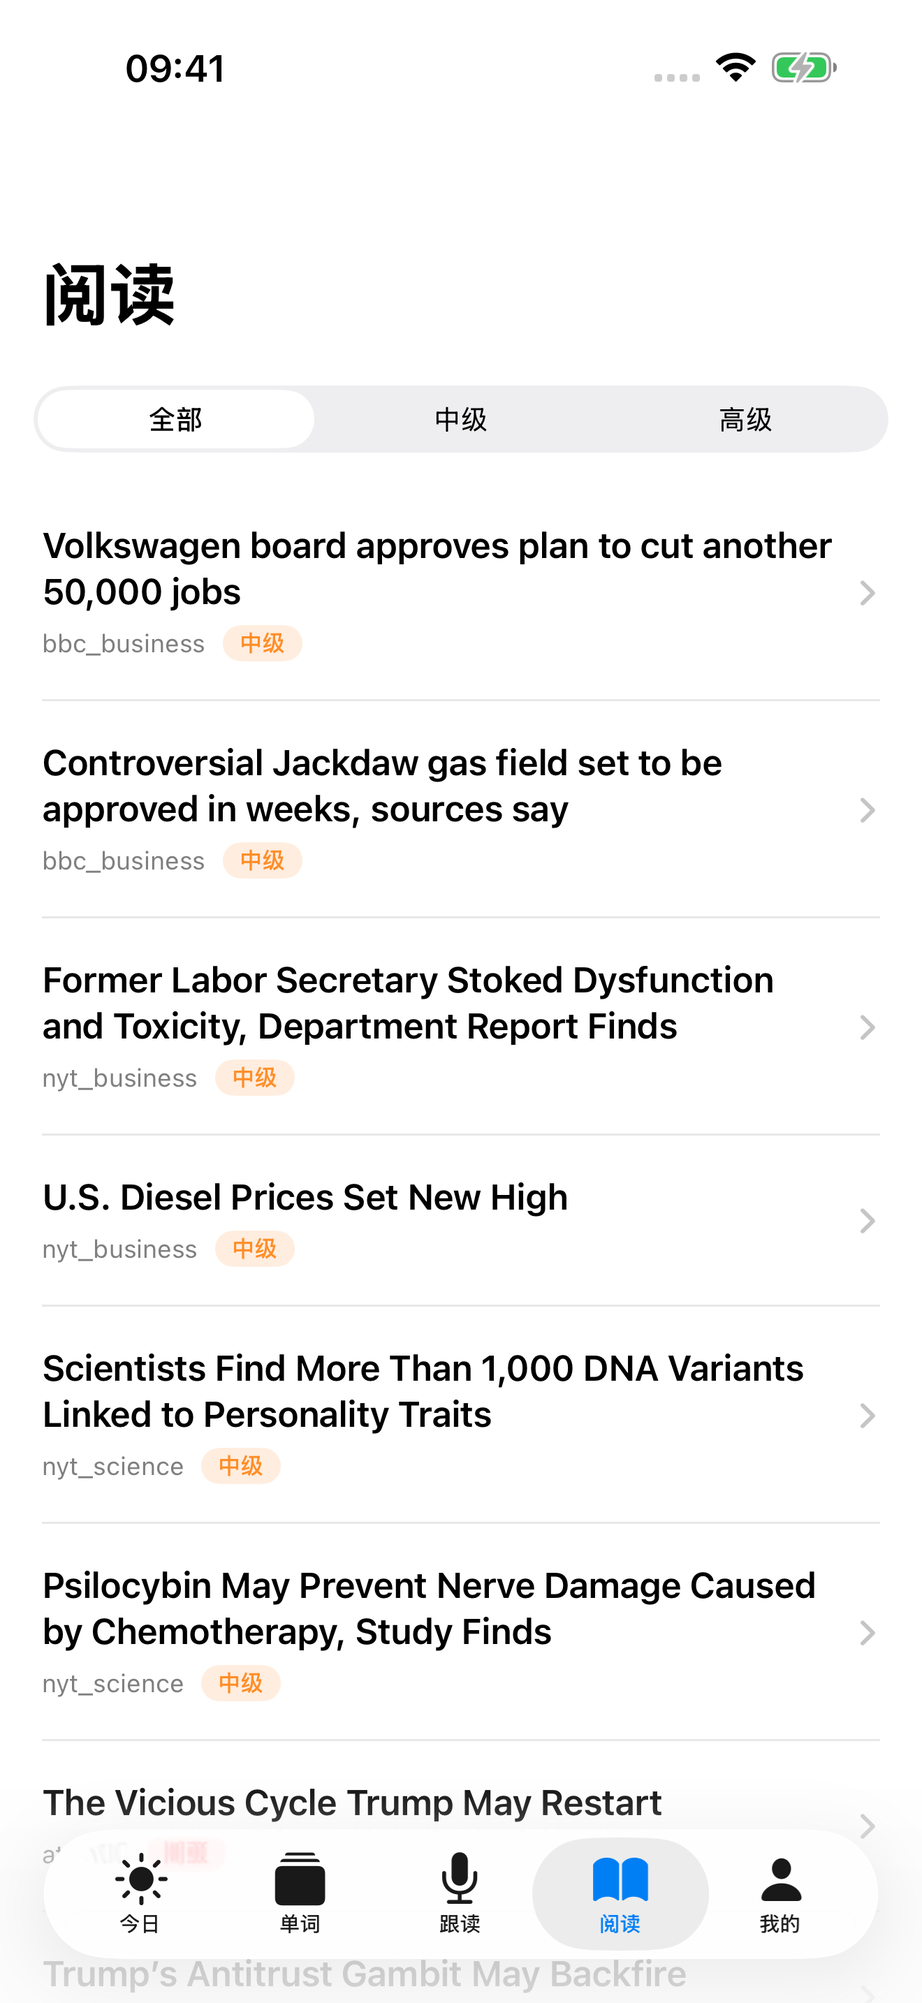
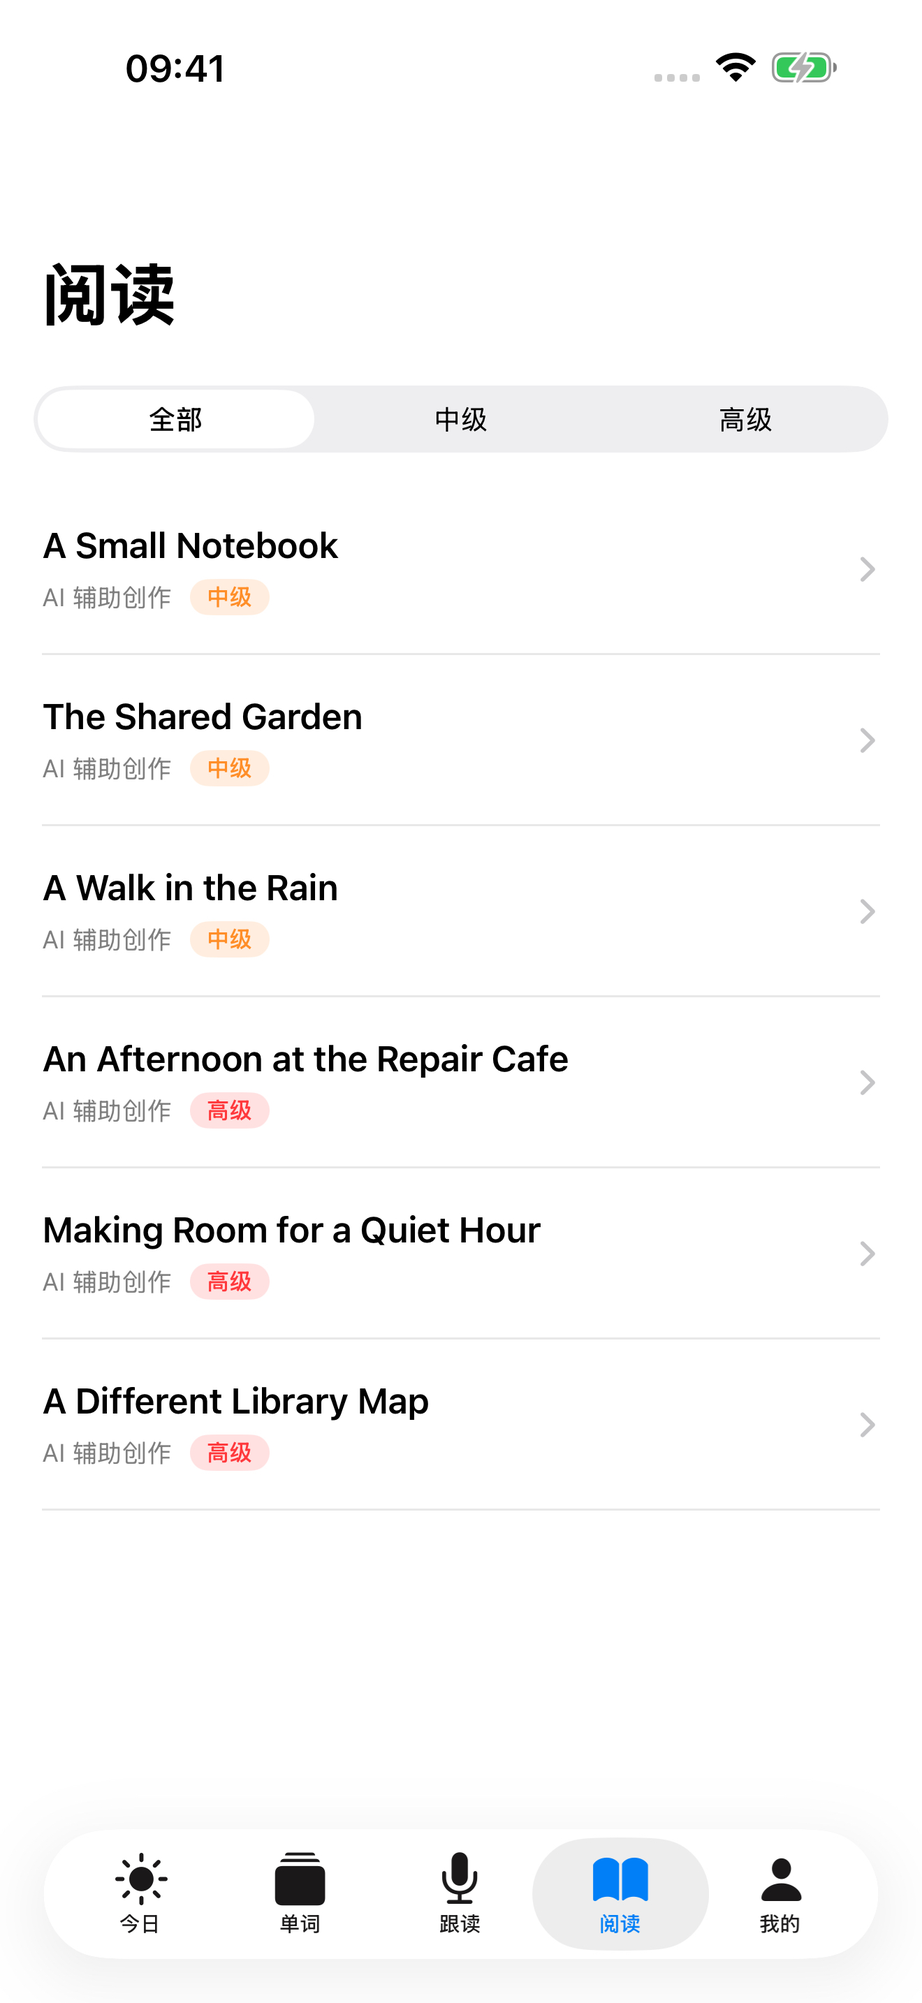
docs(release): record build 3 upload and original reading screenshots

diff --git a/docs/app-store/verification.md b/docs/app-store/verification.md
@@ -1,39 +1,39 @@
 # 本地上架材料验收记录
 
-日期：2026-09-05。检查范围为本目录的草稿与截图，不是全 App 回归、真机麦克风测试或发布批准。
+日期：2026-09-06。检查范围为本目录的草稿与截图，不是真机麦克风测试或发布批准。
 
 ## 截图来源与测试
 
-- 源码提交：`4bbff23f8eca67e828f3d1b5be0abd1c4e26eadf`；制作材料时 `git diff --exit-code -- app` 通过，正式源码未改动。
-- Xcode 26.2；专用 iPhone 17 Pro Max 模拟器，iOS 26.3.1。中文、浅色外观，状态栏统一为 09:41。
-- 临时 XcodeGen 工程直接引用仓库 `app/Sources`、`app/Resources` 与原 Info.plist，Release 配置；不是通过 Debug 自动化入口制造状态。模拟器采用 ad-hoc 签名，不生成新上架归档。
-- XCUITest 使用专用审核账号进入真实服务，依次打开单词释义、今日、跟读、阅读列表和详情。未提交答题、未收藏词条、未录音；正常认证可能产生安全日志。
-- 最终运行：`ScreenshotUITests.testCaptureStoreScreenshots` 通过；1 个测试，0 个失败，用时 30.007 秒，`TEST SUCCEEDED`。
-- 截图从 XCTest 附件导出。原始截图直接编码为 JPEG；只复制五张指定附件，没有导出登录界面、测试结果包或凭据。
-- 前期临时工程遇到配置缺失、关闭签名导致 Keychain 保存失败及一次点击失败；补齐配置／签名并重新运行后最终测试通过。未据此声称真机全流程已验证。
+- Build 1/2 的旧五图展示后端文章内容，已被本轮五张 Build 3 新图替换。
+- Release 截图测试 1 个测试通过，确认五个 Tab、每日阅读、含一篇内置短文的阅读列表，以及 `A Small Notebook` 详情可见。
+- 截图测试结果：`/private/tmp/englishwords-store-capture.1vQp0n/Capture-build3-bundled-reading-retry.xcresult`。
+- 截图从 XCTest 附件导出为五张 JPEG，没有导出登录界面、测试结果包或凭据。
 
 ## 图像检查
 
-五张图片均逐张查看，且 `sips` 确认：1320 × 2868、JPEG、`hasAlpha: no`。没有加载错误、登录凭据、私人电话号码或调试服务地址。SHA-256 已记录在 `screenshots/manifest.json`。
+五张新图均已逐张查看，且 `sips` 确认尺寸为 1320 × 2868。前三图因对应真实界面未变化而与旧图 SHA-256 相同；阅读列表和详情为内置 AI 辅助创作短文的新图。
 
 尺寸对照：[Apple 截图规格](https://developer.apple.com/help/app-store-connect/reference/app-information/screenshot-specifications/)。规格匹配仅代表文件尺寸满足该槽位要求，不代表内容和授权已获 Apple 认可。
 
-截图呈现限制：跟读是未练习状态，不是语音能力验证；文章为线上真实内容，版权未核验；不以截图证明不存在的功能。后续 App 界面／版本变更时应重新制作。
+阅读详情截图默认显示英文正文，只展开中文标题；段落中文译文需要点击后显示，截图不证明已展示全文译文。六篇短文已逐篇阅读核对英中对应，独立审阅无阻塞；这不证明词典释义或例句的来源授权。
 
 ## 文案与隐私核对
 
-中文文案长度：名称 18、副标题 13、推广文本 59、关键词 35；描述长度由校验脚本按当前文案重新计算。结构化 JSON 可解析，描述正文与 Markdown 分区对应。支持／隐私 URL 已与 App 配置一致，版权已按用户确认填写为 `2026 shaofei Ma`。
+Build 3 新描述为 594 字，推广文本、关键词、副标题和 Education 分类均已保存至 App Store Connect。支持／隐私 URL 已与 App 配置一致，版权已按用户确认填写为 `2026 shaofei Ma`。
 
-当前源码已包含 App 内注册审批、账号注销／撤回／回执查询、隐私／支持入口及 `PrivacyInfo.xcprivacy`。材料仍区分“登出”与“注销”，也没有承诺未知的数据保存时限。隔离 HTTP／PostgreSQL／Redis／worker 生命周期验证已通过（后端提交 `682cbae`，25 个 PostgreSQL 用例及 live smoke 通过）；iOS 全套 104 个测试与构建已通过。这些证据不等于生产注销已启用。
+恢复五个 Tab 和每日阅读已完成，源码提交为 `db4e6bd991aa64539ac7c34e6d55bee95d7bcc8d`。`ReadingStore` 的红灯结果为 9 个测试中 5 个失败（`/private/tmp/englishwords-original-reading-tests/Logs/Test/Test-EnglishWords-2026.09.06_22-40-06-+0900.xcresult`）；实现后的绿灯结果为 9 个测试、0 个失败（`/private/tmp/englishwords-original-reading-tests/Logs/Test/Test-EnglishWords-2026.09.06_22-47-15-+0900.xcresult`）。材料仍区分“登出”与“注销”，这些证据不等于生产注销已启用。
 
 ## 生产与导出验证
 
 - 生产已部署提交 `98139df`，数据库迁移为 `20260905_0002`；核对时有 5 个 active users，账号注销开关保持 `false`。
 - 容器内 `/health` 返回的 `status`、`db`、`redis` 均为 `ok`。
-- 公网 `/privacy` 与 `/support` 已通过未登录浏览器完成渲染验证；隐私政策中的 SLA／留存规则仍待定稿。
+- 公网 `/privacy` 与 `/support` 已通过未登录浏览器完成渲染验证；SLA／回执期限已确认，隐私政策中的其他留存规则仍待定稿。
 - `AppStoreExport/EnglishWords.ipa` 已在本地成功导出。可访问证书链的提升权限环境中，`codesign --verify --deep --strict` 通过；签名为 Apple Distribution `shaofei Ma`，Team ID `9H47USBKK4`。
 - 导出包版本为 1.0（build 1）；`PrivacyInfo.xcprivacy` 中 UserDefaults 理由 `CA92.1` 已核对。
-- App Store Connect 登录已恢复，Love English 1.0 为 `Prepare for Submission`。中文推广文本、512 字描述、关键词、支持 URL、版权 `2026 shaofei Ma` 及审核联系邮箱已保存；最终 Save 不可用且 Add for Review 恢复可用，页面无错误。
+- `build/LoveEnglish-1.0-3-bundled-reading.xcarchive` 已成功归档为 1.0（build 3），归档内 `original-reading.json` 与源码资源相同。
+- 2026-09-06 23:03:23 JST，Build 3 上传命令以 0 退出，并返回 `Upload succeeded`、`Uploaded package is processing`。这证明上传完成，不代表 Apple 已处理完成。
+- App Store Connect 中 Love English 1.0 为 `Prepare for Submission`。新版推广文本、594 字描述、关键词、副标题和 Education 分类已保存。
+- 五张截图已上传到 6.9 英寸槽位，6.5 英寸槽位自动沿用；页面返回后确认顺序为 01 今日、02 单词、03 跟读、04 阅读列表、05 阅读详情，共 5 项且无重复。
 
 隐私政策属于技术事实草稿，不是法律意见或最终正式政策。阻塞项完整列于 `privacy-review.md`，需结合最终生产配置与发布地区完成确认。
 
@@ -51,4 +51,4 @@ git diff --check
 
 ## 未执行
 
-Build 2 已于 2026-09-06 22:08 JST 上传成功（`Upload succeeded`、`EXPORT SUCCEEDED`），Apple 返回正在处理。截图尚未上传，未发布 Apple 隐私标签，也未提交 App Review；已保存部分元数据草稿。生产注销开关仍为 `false`，未执行真实账号删除。
+Build 2 已于 2026-09-06 22:08 JST 上传成功，但不再作为首版最终材料。Build 3 已上传成功，仍在等待 Apple 处理并在版本中选定；未发布 Apple 隐私标签，也未提交 App Review。生产注销开关仍为 `false`，未执行真实账号删除。

diff --git a/docs/app-store/privacy-review.md b/docs/app-store/privacy-review.md
@@ -11,7 +11,8 @@
 | 答题反馈、掌握程度、收藏及时间 | Usage Data → Product Interaction | App Functionality；Product Personalization：安排复习队列 | 是 | `VocabStore` 同步；`UserWordProgress` 和结果日志保存 |
 | 认证事件、IP、User-Agent、限流信息 | 暂拟 Other Data Types；最终按实际日志用途确认 | App Functionality：防滥用、账号安全与运行维护 | 账号相关审计记录：是 | 不可因其为技术数据而漏报；未发现基于 IP 推断地理位置的路径 |
 | 录音、语音识别文本和匹配得分 | 本版本不作为离开设备收集的 Audio Data 申报 | 本地跟读 | 本地 | `requiresOnDeviceRecognition = true`，无服务器上传路径 |
-| 阅读／跟读任务勾选、每日新词量、难度设置 | 本地保存；难度／词量作为获取队列请求参数传输 | 本地界面偏好及请求服务 | 视字段而定 | 不把纯本地勾选误写成云端记录；参数的日志留存需确认 |
+| 阅读／跟读任务勾选、每日新词量、难度设置 | 任务勾选本地保存；难度／词量作为获取词汇队列的请求参数传输 | 本地界面偏好及词汇请求 | 视字段而定 | 内置短文的阅读任务不上传；参数的基础设施日志留存需确认 |
+| 短文点词收藏 | Usage Data → Product Interaction | App Functionality；Product Personalization：加入学习队列 | 是 | 只有用户点词收藏时向后端词汇接口发送匹配词；内置短文列表／详情不联网 |
 | 登录密码、认证令牌 | 在政策中解释认证处理；不机械增加一个不存在的“密码”标签分类 | App Functionality | 账号相关 | 当前登录路径使用密码哈希验证；Keychain 保存令牌 |
 
 “用于追踪”暂拟否：已检查的 App 源码未集成广告、IDFA、ATT、第三方统计或崩溃 SDK，也未发现广告归因或跨公司用户画像用途。这个判断只覆盖已核查的实现；发布前仍须确认线上网络／托管服务商不会以其他目的使用数据。
@@ -27,11 +28,11 @@
 - `app/Sources/Core/KeychainStore.swift:54`：Keychain 写入与设备锁定可访问性。
 - `app/Sources/Features/Vocab/VocabStore.swift:27`：队列拉取；`:60` 答题记录；`:76` 同步。
 - `app/Sources/Features/Vocab/VocabModels.swift:50`：逐条结果随机 UUID，不是持久设备 ID。
-- `app/Sources/Features/Reading/ReadingStore.swift`：文章请求与词汇收藏。
+- `app/Sources/Features/Reading/ReadingStore.swift`、`app/Resources/original-reading.json`：六篇双语短文从 App bundle 读取，无后端文章列表／详情回退；点词收藏继续调用词汇接口。
 - `app/Sources/Features/Speaking/Recognizer.swift:30`：离线能力检查与设备端识别要求。
 - `app/Sources/Features/Speaking/ScoringStrategy.swift`：识别文字匹配得分，不是专业音素级评分。
 - `app/Sources/Features/Vocab/WordCardView.swift:10`：系统语音合成，不调用平台 TTS API。
-- `app/Sources/Features/Today/TodayView.swift:120`：本地阅读／跟读任务状态。
+- `app/Sources/Features/Today/TodayView.swift`：本地阅读／跟读任务状态。
 - `app/Sources/Features/Auth/LoginView.swift`、`Features/Account/RegistrationView.swift`：App 内提交注册申请，账号在管理员审批通过前不能进入学习功能。
 - `app/Sources/Features/Settings/SettingsView.swift`：提供“账号与隐私”、隐私政策和联系我们入口；登出清理本地记录，但不等于注销服务端账号。
 - `app/Sources/Features/Account/AccountManagementView.swift`：重新验证后查看账号状态、提交或撤回注销申请，并通过回执查询处理进度。
@@ -42,7 +43,6 @@
 - `senior-platform/backend/app/core/audit.py:22`、`models/audit_log.py:14`：IP、User-Agent、账号、事件详情及时间持久化。
 - `senior-platform/backend/app/core/rate_limit.py:24`：Redis 保存 IP 限流计数，代码配置有 TTL；不代表数据库日志采用相同时限。
 - `senior-platform/backend/app/models/vocab.py:28`、`api/vocab.py:30`：账号关联的进度和个性化复习队列。
-- `senior-platform/backend/app/api/articles.py:62`：读取文章，不单独写入阅读历史；不排除基础设施日志记录请求。
 
 ## 不可直接照搬的内容
 
@@ -56,13 +56,14 @@
 
 ### 必须补齐／验证
 
-- [x] 已在未登录浏览器验证 `https://senior.dafang-edu.com/privacy` 和 `https://senior.dafang-edu.com/support` 可公开渲染；App 在注册页和设置页提供入口。政策内容仍须在 SLA／留存规则确认后定稿。依据：[审核指南 5.1.1](https://developer.apple.com/app-store/review/guidelines/#privacy)。
+- [x] 已在未登录浏览器验证 `https://senior.dafang-edu.com/privacy` 和 `https://senior.dafang-edu.com/support` 可公开渲染；App 在注册页和设置页提供入口。SLA／回执期限已确认，政策内容仍须在其他留存规则确认后定稿。依据：[审核指南 5.1.1](https://developer.apple.com/app-store/review/guidelines/#privacy)。
 - [ ] 在隔离环境验证已实现的账号生命周期全流程：App 内注册申请、管理员审批、账号重新验证、注销申请／撤回、回执查询及完成后的本地清理。生产删除策略未启用前，不能把代码存在写成线上已可用。依据：[Apple 账号删除指引](https://developer.apple.com/support/offering-account-deletion-in-your-app/)。
-- [ ] 核对注销清单覆盖的账号关联数据，并确认审计、支付、备份等数据的保留／清理规则；当前已实现注销队列和后台处理流程，但保留规则与生产执行结果仍须确认，不能承诺未验证的彻底删除范围。
+- [ ] 注销处理期限 7 个自然日、完成后回执查询 30 天已获用户确认；仍须核对注销清单覆盖的账号关联数据，并确认审计、支付、备份等其他保留／清理规则，不能承诺未验证的彻底删除范围。
 - [x] 导出 IPA 已核对 `PrivacyInfo.xcprivacy`，UserDefaults 所需理由为 `CA92.1`；依赖发生变化时仍须重新检查。参考：[Apple Required Reason API](https://developer.apple.com/documentation/bundleresources/describing-use-of-required-reason-api)。
 - [ ] 运营主体和版权已按用户确认使用 `shaofei Ma（韶飞 麻）`；仍须确认政策生效日期及最终正式联系信息。
 - [ ] 核对实际生产服务商、处理地区、访问日志用途／期限、数据库保留策略和备份生命周期，再定稿安全日志的隐私分类。
-- [ ] 核实词典、例句、文章和译文的使用及商店截图展示权。服务端能返回内容不等于已证明出版或展示授权。
+- [x] 六篇内置短文已逐篇核对英中对应，来源记录已核对，独立审阅无阻塞；该结论是本轮内容核对结果，不表述为版权或人工法务审核证明。
+- [ ] 继续核实词典释义、例句等既有内容的来源及商店截图展示权；内置短文核对完成不证明其他内容已获授权。
 
 ### 本轮不执行
 

diff --git a/docs/app-store/release-status.md b/docs/app-store/release-status.md
@@ -11,14 +11,23 @@
 - IPA 使用 Apple Distribution `shaofei Ma`、Team ID `9H47USBKK4`，版本 1.0（build 1）。
 - 隐私清单的 UserDefaults 理由 `CA92.1` 已验证。
 - 运营主体使用 `shaofei Ma（韶飞 麻）`，App Store 版权字段使用 `2026 shaofei Ma`。
-- App Store Connect 登录已恢复；Love English 1.0 为 `Prepare for Submission`。中文推广文本、512 字描述、关键词、支持 URL、版权和审核联系邮箱已成功保存为草稿，页面无错误。
+- App Store Connect 中 Love English 1.0 为 `Prepare for Submission`。新版推广文本、594 字描述、关键词、副标题和 Education 分类已保存。
 - Apple 上已有 2026-09-02 上传的旧 `1.0 (1)`，不能代表本次账号生命周期版本。本次构建号已递增为 `2`，`build/LoveEnglish-1.0-2.xcarchive` 归档成功；2026-09-06 22:08 JST 上传成功，Apple 返回 `Uploaded package is processing`。Apple 处理完成须另行记录。
 - 审核联系人与用户指定的 Brick Smash 8x8 一致，审核凭据已保存在 Apple 的审核资料中。生产只读查询确认审核专用账号活跃且注销申请数为 0；公开材料不记录电话或凭据。
+- 用户已明确同意注销处理期限为 7 个自然日内、完成后回执可查询 30 天。该批准已记录，生产配置尚未因此自动启用。
+- 用户已确认首版保留阅读，内容固定为 App bundle 中 `original-reading.json` 的六篇独立创作双语学习短文；不请求后端文章列表／详情，也没有网络回退，点词收藏继续使用后端词汇接口。
+- 五个 Tab 和每日阅读已恢复；`ReadingStore` 9 个测试通过，Release 截图测试 1 个测试通过并覆盖五个 Tab、内置阅读列表和 `A Small Notebook` 详情。
+- 六篇短文已逐篇核对英中对应，来源记录已核对，独立审阅无阻塞；此结论不作为版权或人工法务审核证明。
+- 五张 Build 3 新截图已替换并逐张查看为 1320 × 2868；前三图对应真实界面未变化，阅读列表和详情为内置短文新图。
+- `build/LoveEnglish-1.0-3-bundled-reading.xcarchive` 已成功归档为 1.0（build 3），归档内 `original-reading.json` 与源码相同。
+- 当前源码提交为 `db4e6bd991aa64539ac7c34e6d55bee95d7bcc8d`。`ReadingStore` 红灯 xcresult 为 `/private/tmp/englishwords-original-reading-tests/Logs/Test/Test-EnglishWords-2026.09.06_22-40-06-+0900.xcresult`，绿灯 xcresult 为 `/private/tmp/englishwords-original-reading-tests/Logs/Test/Test-EnglishWords-2026.09.06_22-47-15-+0900.xcresult`；截图测试 xcresult 为 `/private/tmp/englishwords-store-capture.1vQp0n/Capture-build3-bundled-reading-retry.xcresult`。
+- 2026-09-06 23:03:23 JST，Build 3 上传命令以 0 退出并返回 `Upload succeeded`、`Uploaded package is processing`；Apple 尚未确认处理完成。
+- 五张截图已上传至 6.9 英寸槽位，6.5 英寸槽位自动沿用；回到页面后已验证 01 今日、02 单词、03 跟读、04 阅读列表、05 阅读详情共 5 项，顺序正确且无重复。
 
 ## 剩余门禁
 
-- 截图尚未上传；Build 2 已上传、等待 Apple 处理，尚未提交 App Review；当前已完成部分元数据草稿保存。
-- 隔离 HTTP／PostgreSQL／Redis／worker 生命周期验证已通过（后端提交 `682cbae`，25 个 PostgreSQL 用例及 live smoke 通过）；iOS 相关测试和构建也已通过。生产注销开关仍为 `false`，待确认 SLA、服务端数据留存及备份处理规则并完成 worker 启用。
+- 等待 Apple 完成 Build 3 处理，并在 Love English 1.0 版本中选定该构建；尚未提交 App Review。
+- 隔离 HTTP／PostgreSQL／Redis／worker 生命周期验证已通过（后端提交 `682cbae`，25 个 PostgreSQL 用例及 live smoke 通过）；iOS 相关测试和构建也已通过。生产注销开关仍为 `false`，SLA 7 天和完成后回执查询 30 天已获批准；服务端其他数据留存及备份处理规则仍须确定，并完成 worker 配置与启用。
 - 隐私政策生效日期和最终留存文案仍待定稿。
-- 文章等内容的使用与截图展示授权仍待明确，不能推断已有授权。
+- 词典释义、例句等既有内容的来源与截图展示依据仍待核对；内置短文核对完成不证明其他内容已获授权。
 - App Privacy、年龄分级、销售地区、价格及审核信息仍须在 App Store Connect 最终核对。

diff --git a/docs/app-store/zh-Hans/support.draft.md b/docs/app-store/zh-Hans/support.draft.md
@@ -34,15 +34,15 @@
 
 ## 阅读与收藏
 
-阅读列表可按可用难度筛选。文章段落有译文时可展开中文对照；正文中的单词可加入学习队列，词典未收录时会显示相应提示。
+首版提供六篇随 App 内置的双语英语学习短文，可按可用难度筛选，并展开段落中文对照。短文为项目独立创作内容，不翻译或改写媒体底稿，也不从外刊网站实时更新。
 
-阅读需要联网。文章和译文可能不完整，内容、来源标注和可用性以页面实际显示为准。
+打开列表和短文详情不请求后端文章服务。点击正文中的单词时，可将词典中可匹配的词加入学习队列；点词收藏需要联网，词典未收录时会显示相应提示。
 
 ## 隐私与账号删除
 
 隐私政策已发布于 `https://senior.dafang-edu.com/privacy`，并已验证无需登录访问。App 的注册页和“我的”页面均提供隐私入口，“我的”页面还提供支持入口。
 
-登出或卸载不等于注销服务器账号。你可以从登录页的“查看申请 / 管理账号”，或登录后“我的”中的“账号与隐私”重新验证账号；服务端注销策略启用时，可按页面提示提交注销申请、查看处理进度，并在允许阶段撤回申请。请先同步仍保存在本机的学习结果。注销完成后，App 会清理本机账号凭据和相关学习数据；服务端数据与备份的具体保留规则以最终隐私政策为准。
+登出或卸载不等于注销服务器账号。你可以从登录页的“查看申请 / 管理账号”，或登录后“我的”中的“账号与隐私”重新验证账号；服务端注销策略启用时，可按页面提示提交注销申请、查看处理进度，并在允许阶段撤回申请。请先同步仍保存在本机的学习结果。注销申请将在 7 个自然日内处理，完成后的回执可查询 30 天。注销完成后，App 会清理本机账号凭据和相关学习数据；服务端其他数据与备份的具体保留规则以最终隐私政策为准。
 
 ## 发布前检查
 
